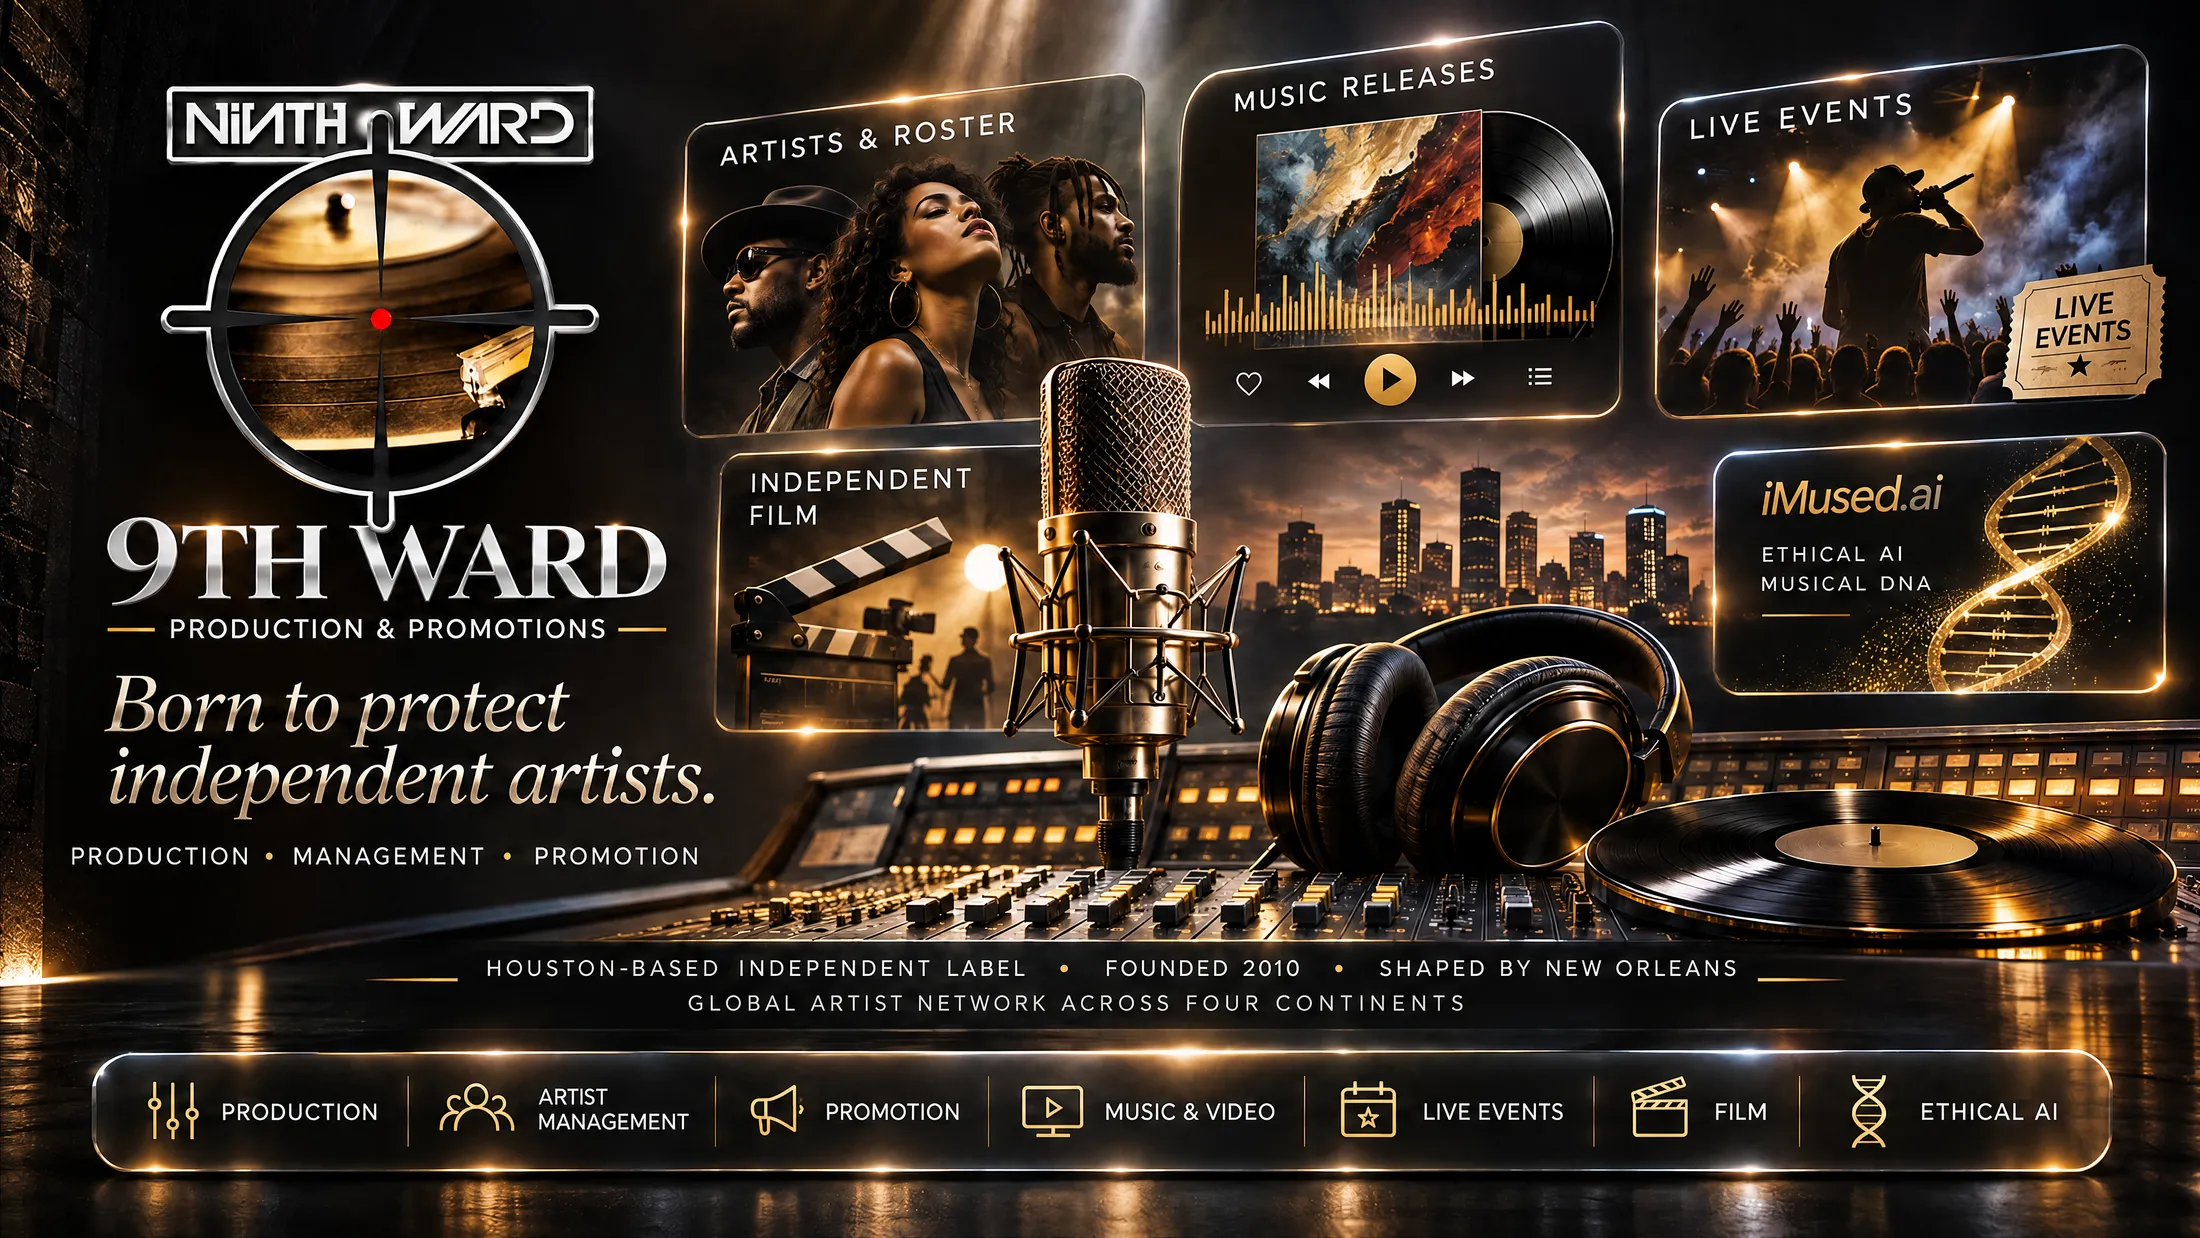
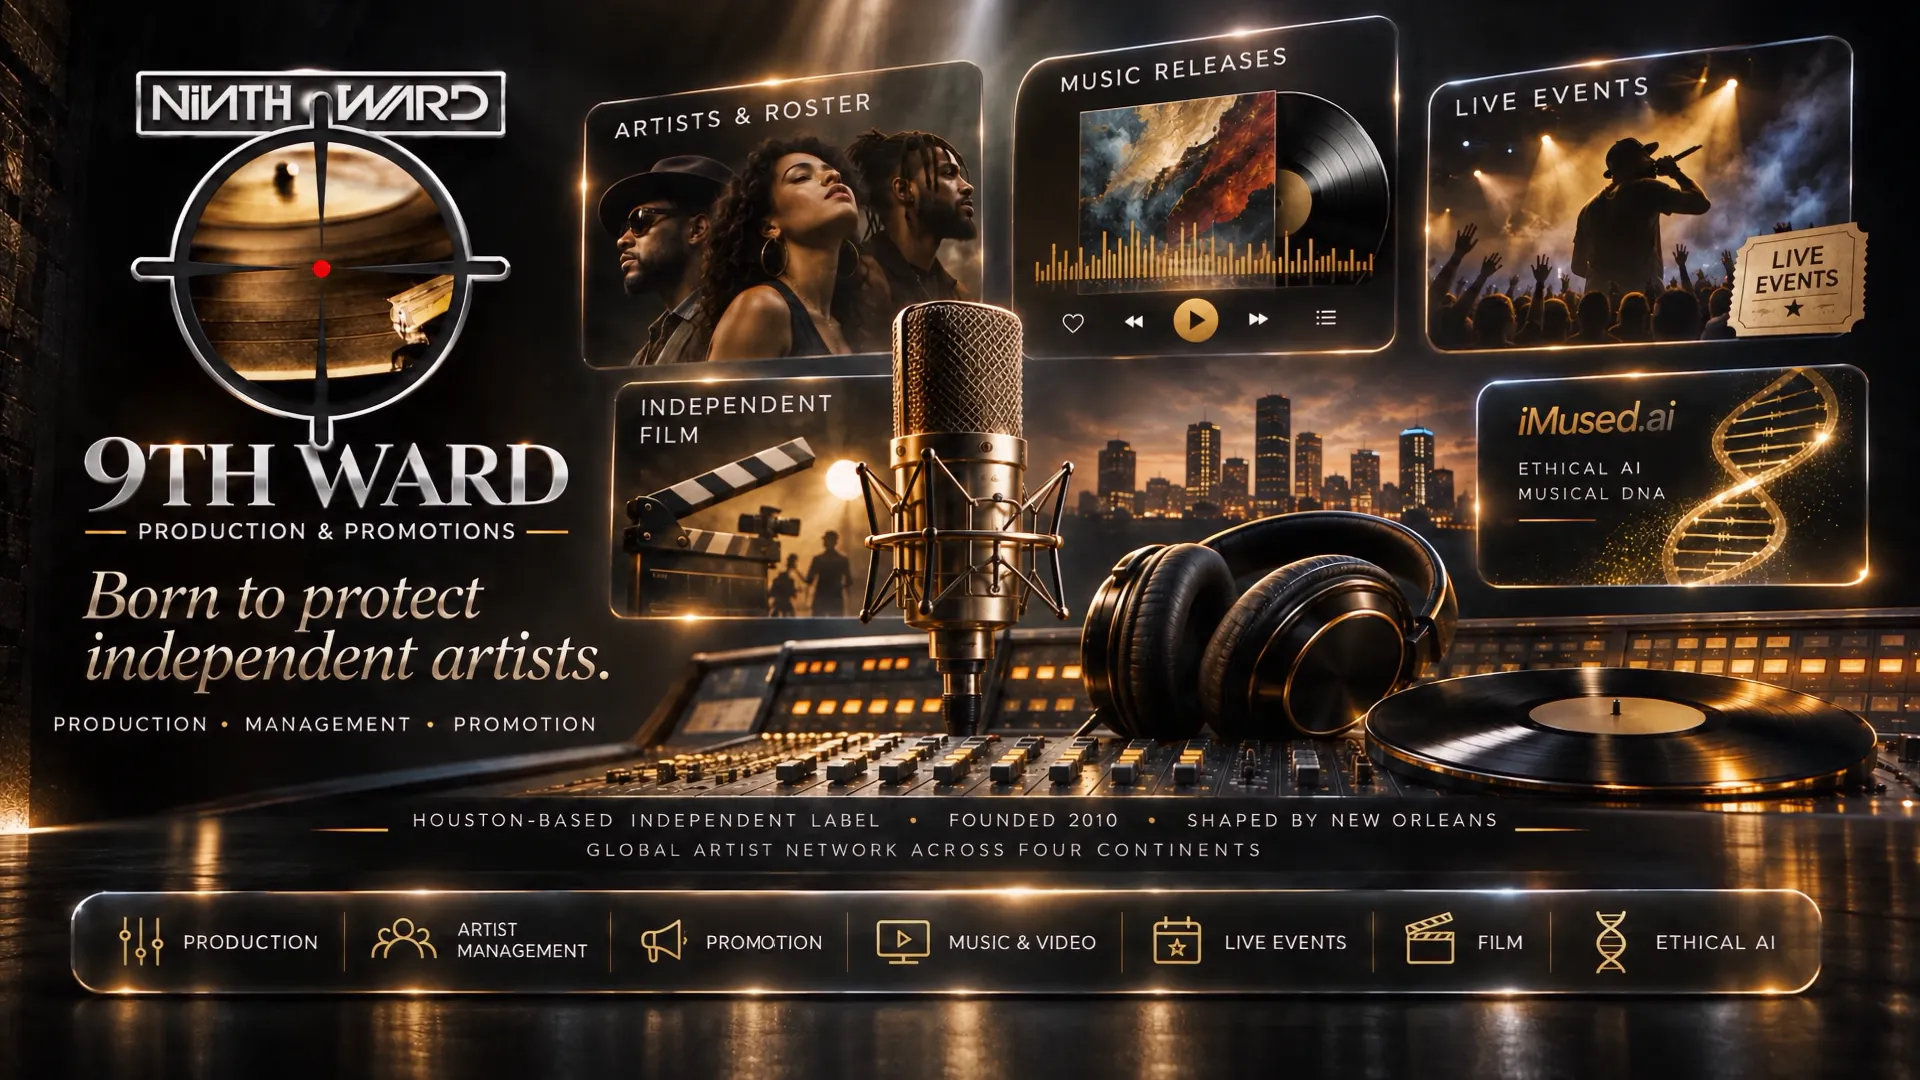
Home hero: the still is now the intro clip's last frame (seamless hand-off)

diff --git a/components/site/hero-art.tsx b/components/site/hero-art.tsx
@@ -11,13 +11,14 @@ import { cn } from "@/lib/utils";
  * Home hero: the feature art itself, with invisible hotspot links over every
  * card and label baked into it.
  *
- * FRAGILE: positions are % of public/img/hero-9thward.webp (2200x1238). If the
- * art changes, re-measure (see "Redesign" in HANDOFF.md) and keep HERO_W/H in
- * sync with the file's real pixel size so the box never drifts from the art.
+ * FRAGILE: positions are % of public/img/hero-9thward.webp (1920x1080, the
+ * intro clip's last frame). If the art changes, re-measure (see "Redesign" in
+ * HANDOFF.md) and keep HERO_W/H in sync with the file's real pixel size so the
+ * box never drifts from the art.
  * Below 760px the hotspots hide and the HTML cards underneath take over.
  */
-const HERO_W = 2200;
-const HERO_H = 1238;
+const HERO_W = 1920;
+const HERO_H = 1080;
 
 type Spot = {
   label: string; // aria-label
@@ -26,21 +27,21 @@ type Spot = {
 };
 
 const SPOTS: Spot[] = [
-  { label: "9th Ward Production & Promotions: our story", href: "/about", box: [5, 6, 25.5, 46] },
-  { label: "Born to protect independent artists: read our story", href: "/about", box: [4.5, 53.5, 28.5, 13] },
-  { label: "Production, management and promotion services", href: "/services", box: [2.5, 67, 30, 4.5] },
-  { label: "Artists and roster", href: "/artists", box: [30.8, 5.5, 21.4, 29.5] },
-  { label: "Music releases", href: "/music", box: [53.6, 1.5, 20.2, 32.5] },
-  { label: "Live events", href: "/events", box: [75, 3, 22.8, 31] },
-  { label: "Independent film (coming soon)", box: [32.4, 36, 14, 23] },
-  { label: "iMused.ai: ethical AI, musical DNA", href: "/about#imused", box: [77.6, 34.8, 20.8, 21.4] },
-  { label: "Production services", href: "/services", box: [4.6, 85.5, 13.6, 9] },
-  { label: "Artist management services", href: "/services", box: [18.7, 85.5, 13.6, 9] },
-  { label: "Promotion services", href: "/services", box: [32.7, 85.5, 12.2, 9] },
-  { label: "Music and video", href: "/music", box: [45.1, 85.5, 14.5, 9] },
-  { label: "Live events and shows", href: "/events", box: [60, 85.5, 12.3, 9] },
-  { label: "Film (coming soon)", box: [72.6, 85.5, 8.8, 9] },
-  { label: "Ethical AI: iMused.ai", href: "/about#imused", box: [81.9, 85.5, 13.8, 9] },
+  { label: "9th Ward Production & Promotions: our story", href: "/about", box: [4.3, 6, 25.7, 45] },
+  { label: "Born to protect independent artists: read our story", href: "/about", box: [4.3, 52.5, 27.5, 11.5] },
+  { label: "Production, management and promotion services", href: "/services", box: [2.5, 65, 29, 4.5] },
+  { label: "Artists and roster", href: "/artists", box: [30.8, 5.5, 20.5, 28.5] },
+  { label: "Music releases", href: "/music", box: [52.9, 1.5, 20.7, 32.5] },
+  { label: "Live events", href: "/events", box: [74.3, 3.2, 23.6, 30.5] },
+  { label: "Independent film (coming soon)", box: [32, 35.5, 14.6, 23.1] },
+  { label: "iMused.ai: ethical AI, musical DNA", href: "/about#imused", box: [77.1, 34.5, 20.2, 20.3] },
+  { label: "Production services", href: "/services", box: [4.6, 83, 13.2, 8.4] },
+  { label: "Artist management services", href: "/services", box: [18.4, 83, 13.6, 8.4] },
+  { label: "Promotion services", href: "/services", box: [32.5, 83, 11.4, 8.4] },
+  { label: "Music and video", href: "/music", box: [44.6, 83, 14.3, 8.4] },
+  { label: "Live events and shows", href: "/events", box: [59.6, 83, 12.1, 8.4] },
+  { label: "Film (coming soon)", box: [72.5, 83, 8.6, 8.4] },
+  { label: "Ethical AI: iMused.ai", href: "/about#imused", box: [81.8, 83, 12.5, 8.4] },
 ];
 
 /** Phone cards: wording reused from the art. */

diff --git a/HANDOFF.md b/HANDOFF.md
@@ -407,12 +407,12 @@ Built in Claude Code (desktop) on branch `claude/9thward-site-redesign-fa96b5`, 
 - The old hero (headline, 4 stats, latest-release card) now sits directly under the art as a band (`hero-home2.tsx`); its headline is an `h2`. The page `h1` is screen-reader-only in `hero-art.tsx`.
 
 **Fragile: home hero hotspots** (`components/site/hero-art.tsx`)
-- `SPOTS[].box` = `[left, top, width, height]` in **% of `public/img/hero-9thward.webp` (2200×1238)**. `HERO_W/HERO_H` must equal the file's real pixel size; the container's `aspect-ratio` uses them, so the hotspots can't drift.
+- `SPOTS[].box` = `[left, top, width, height]` in **% of `public/img/hero-9thward.webp` (1920×1080)**. `HERO_W/HERO_H` must equal the file's real pixel size; the container's `aspect-ratio` uses them, so the hotspots can't drift.
 - Re-measure if the art changes: overlay a 2.5% grid on the image (sharp + an SVG of lines works; see git history of this section's commit) or, in the browser, run `document.querySelectorAll('.hotspot').forEach(h=>h.style.outline='2px solid cyan')` and adjust.
 - Below 760px the hotspots are hidden (`max-[759px]:hidden`) and the HTML cards below the art take over (`min-[760px]:hidden`). Keep both breakpoints in sync.
 
 **Images** (`public/img/`, all WebP q80 at 2200 px wide except OG)
-- `hero-9thward.webp`: the regenerated feature art. `og-9thward.jpg`: 1200×630 crop of it (JPEG on purpose, scrapers handle it best).
+- `hero-9thward.webp`: the intro clip's **last frame** (`design/source/hero-lastframe.png`, 1920×1080, with the "PROMOTION" patch applied), so the video hands off to the still with no visible change. It replaced the 4K still `hero-a.png` (kept locally for reference); hotspots were re-measured for it. Rebuild with `node scripts/build-images.mjs`. `og-9thward.jpg`: 1200×630 crop of it (JPEG on purpose, scrapers handle it best).
 - `hero-9thward.mp4`: 6s intro clip, Seedance 2.5 (job `3373f56d…`, 96 credits) with the empty stage as start frame and the live still as **end frame**, so the hand-off to the still has no size jump. H.264, no audio. The model misspelled the bar's "PROMOTION" as "PROMCTION"; the encode patches it by copying the word's own first "O" over the "C" with a tracked ffmpeg crop/overlay (from 3.4s). Re-check text if the clip is ever regenerated. It fades in, plays once, then dissolves into the still (`useIntro` in `hero-art.tsx`, `.hero-intro`/`.hero-still`/`.hero-spots` in globals.css). Hotspots are off until the still is up. Reduced motion and print skip the clip; a stalled clip falls back to the still after 3s (JS) or 9s (CSS).
 - `banner-{about,artists,music,events,services,blog,contact,submit}.webp`: GPT Image 2 (`gpt_image_2`, 2k, high, 21:9) on Higgsfield with the feature art uploaded as a **style-only** reference. Every banner has **no people** (no invented likeness of real artists), subject on the right, left half dark for headlines. Legal pages reuse `blog`; detail pages reuse their parent's banner.
 - Sources live in `design/source/` (gitignored, Jay's machine only). Rebuild web files with `node scripts/build-images.mjs`. Cost: 74 credits (2 hero variants × 11 + 8 banners × 6.5).
